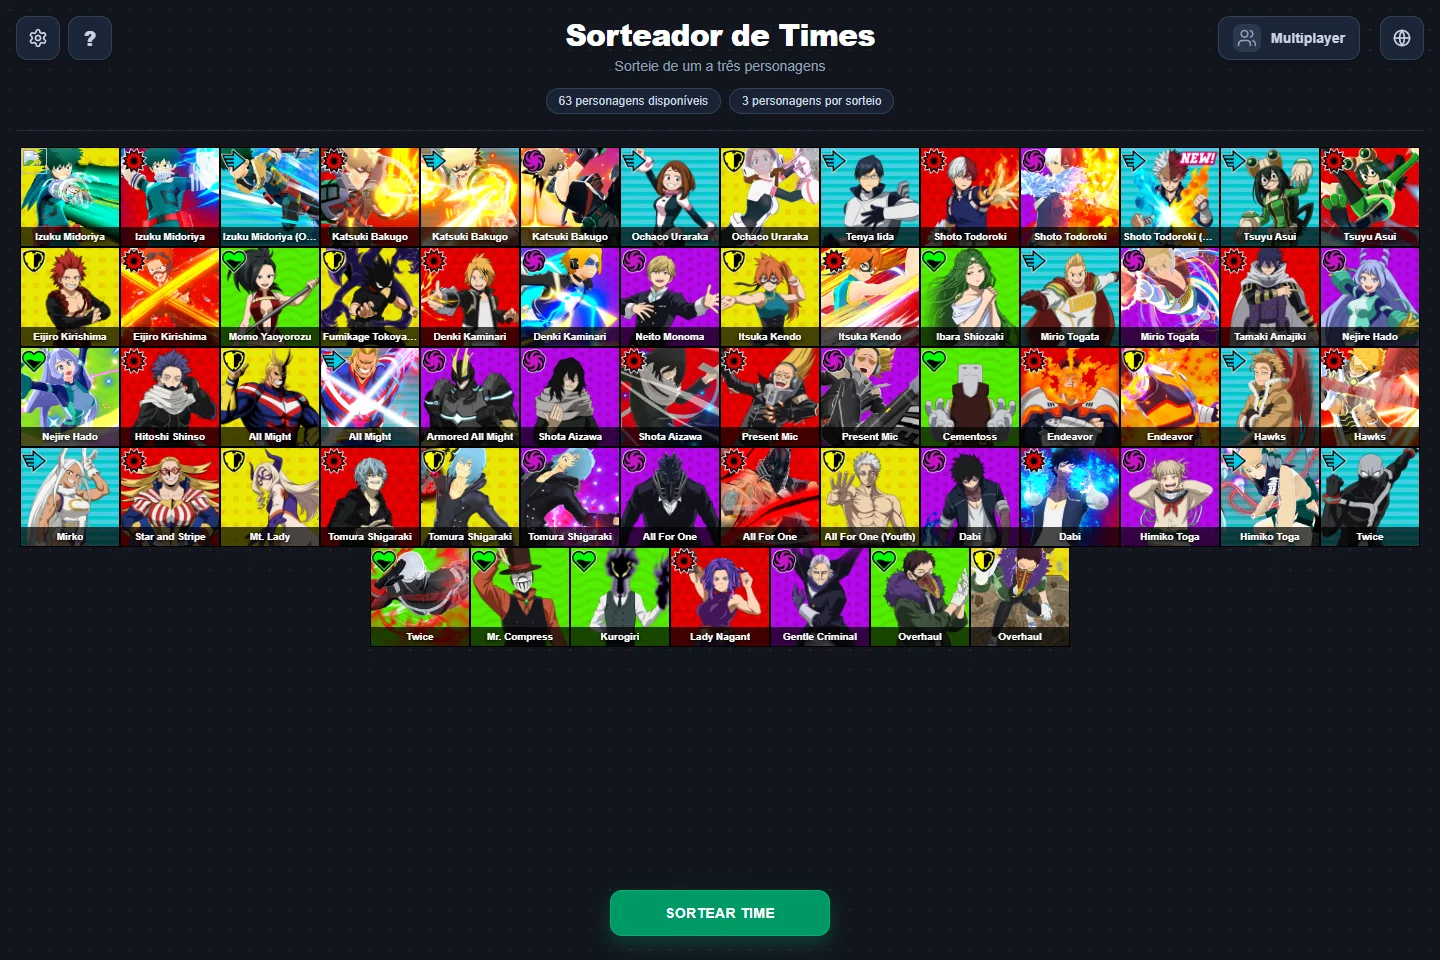
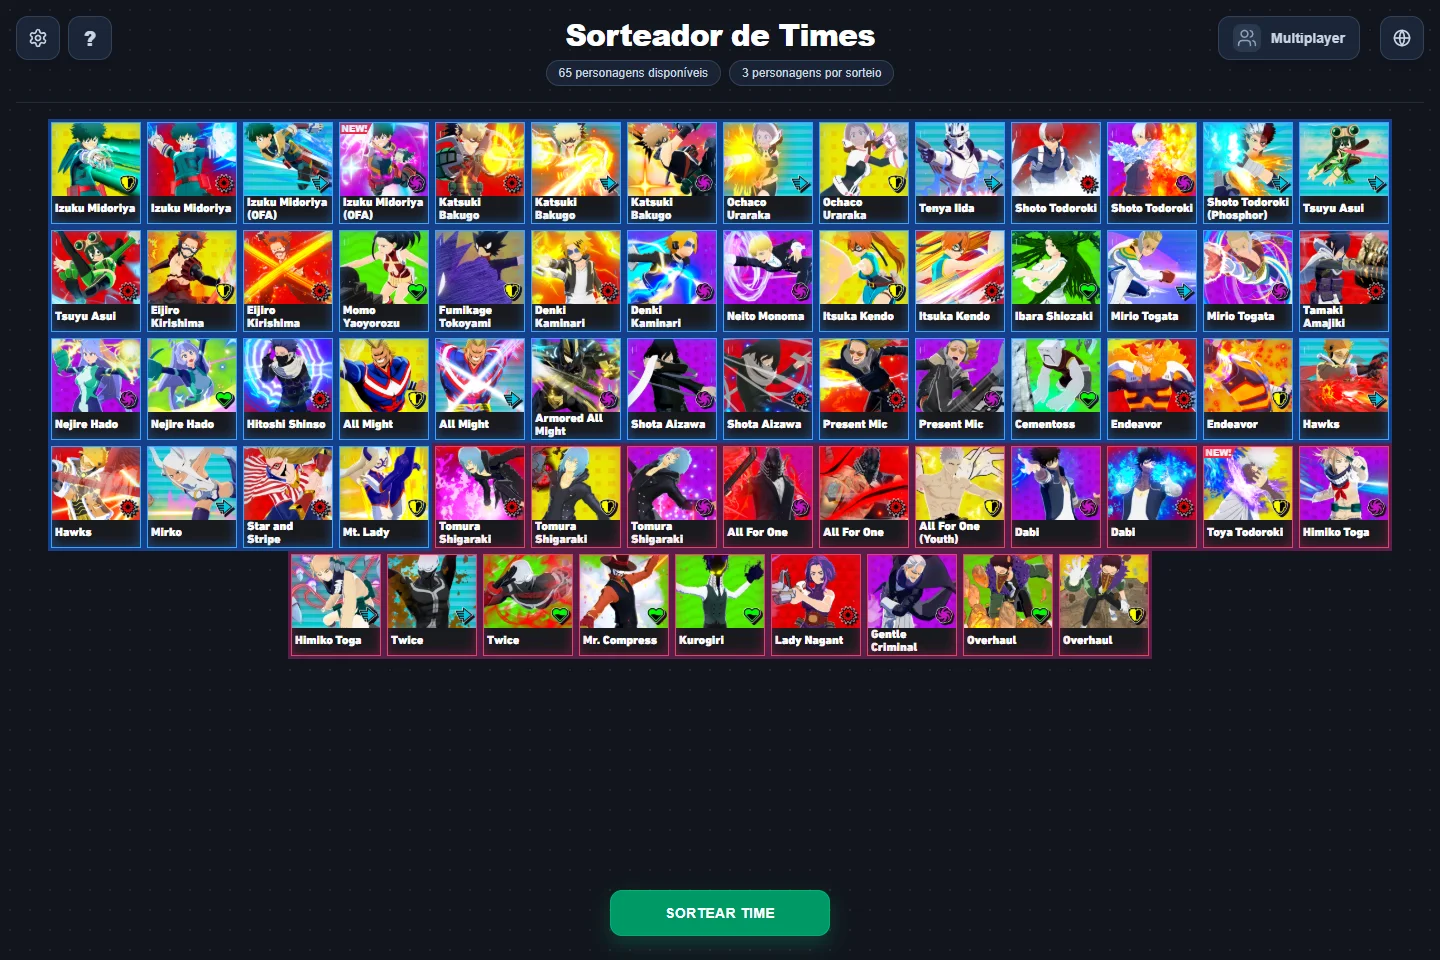
chore: update Rumble Challenge screenshot

diff --git a/public/projects/README.md b/public/projects/README.md
@@ -1,11 +1,11 @@
 # Capturas de projetos
 
-As imagens públicas são capturas reais das aplicações, realizadas em 27/10/2026, em 1440 × 960:
+As imagens públicas são capturas reais das aplicações, em 1440 × 960:
 
-- `valorantguess.webp`: https://ricardolhc.github.io/ValorantGuess/ — rodada em andamento.
-- `rumble-challenge.webp`: https://ricardolhc.github.io/rumble-challenge/ — tela de seleção de personagens.
+- `valorantguess.webp`: https://ricardolhc.github.io/ValorantGuess/ — rodada em andamento, capturada em 27/10/2026.
+- `rumble-challenge.webp`: https://ricardolhc.github.io/rumble-challenge/ — tela de seleção com 65 personagens disponíveis, atualizada em 28/10/2026.
 
-As duas capturas públicas foram convertidas para WebP com qualidade 85, sem metadados, e mostram as interfaces reais das aplicações. Os dois repositórios correspondentes foram confirmados como públicos pela API do GitHub nessa data.
+As duas capturas públicas foram convertidas para WebP com qualidade 85, sem metadados, e mostram as interfaces reais das aplicações. Os dois repositórios correspondentes foram confirmados como públicos pela API do GitHub em 27/10/2026.
 
 As capturas dos projetos empresariais fornecidas pelo proprietário também estão incluídas:
 
